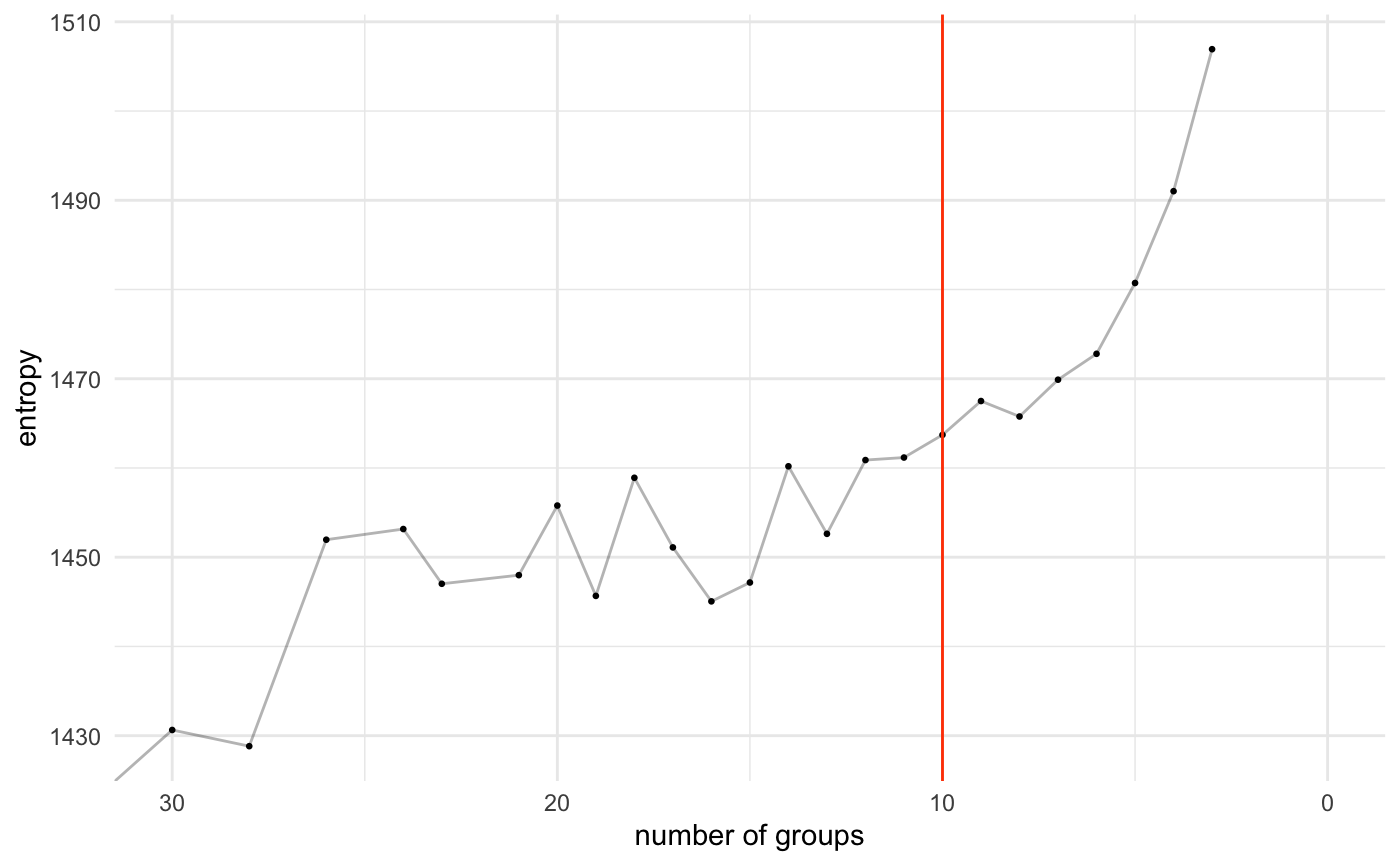
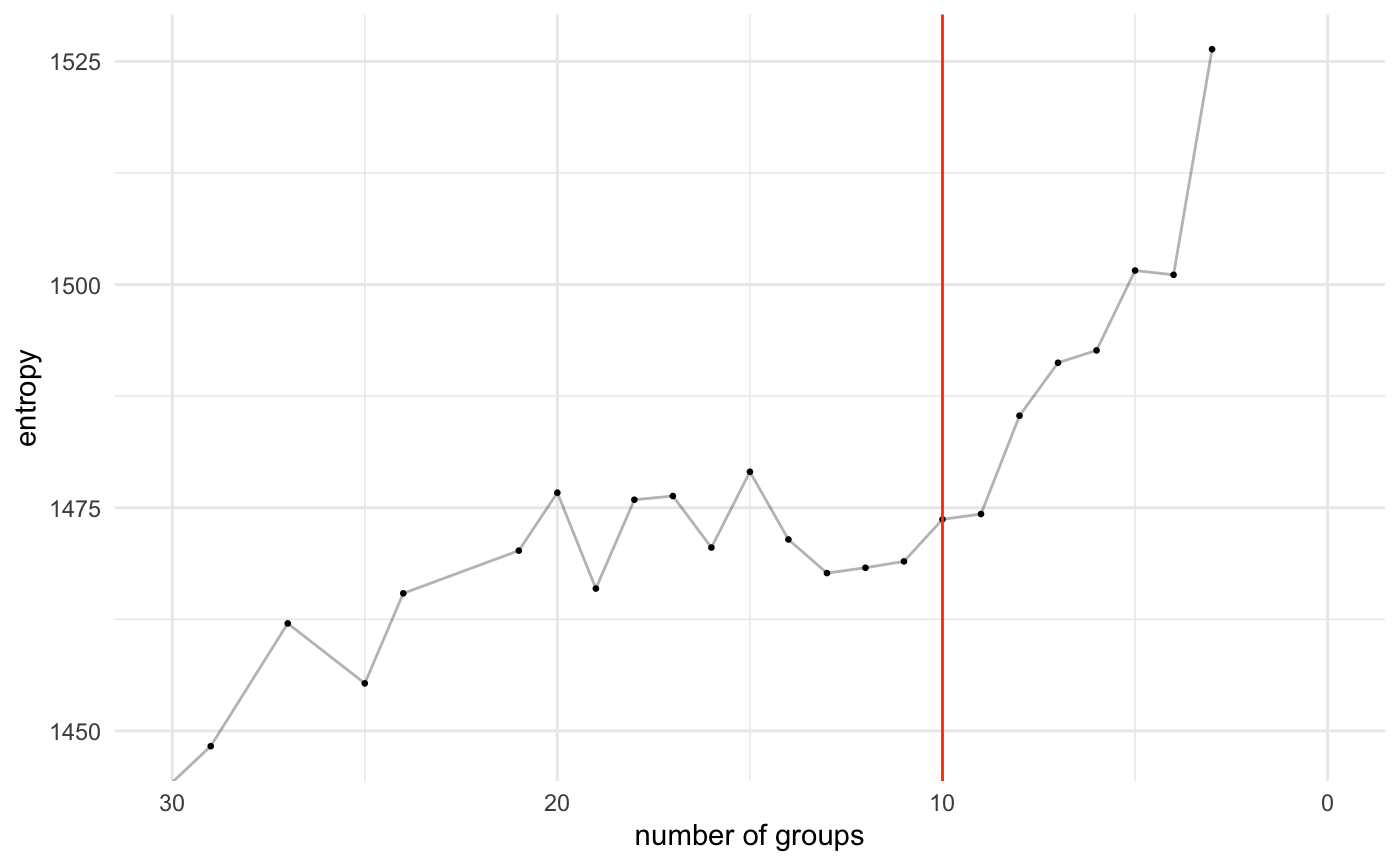
Added section titles for ease of reading

diff --git a/docs/articles/agglomerative_merging.html b/docs/articles/agglomerative_merging.html
@@ -137,6 +137,9 @@
 <a class="sourceLine" id="cb2-39" data-line-number="39"><span class="co">#&gt; 4 a12   none    a     0</span></a>
 <a class="sourceLine" id="cb2-40" data-line-number="40"><span class="co">#&gt; 5 a13   none    a     0</span></a>
 <a class="sourceLine" id="cb2-41" data-line-number="41"><span class="co">#&gt; 6 a14   none    a     0</span></a></code></pre></div>
+<div id="basic-merging" class="section level2">
+<h2 class="hasAnchor">
+<a href="#basic-merging" class="anchor"></a>Basic merging</h2>
 <p>Now that we have our model setup there are two parameters that control this merging.</p>
 <p>First we have <code>GREEDY</code>. When this is set to <code>TRUE</code>, the at every merge step the model will check every possible merge for each node and select the best one.</p>
 <p>Second is <code>N_CHECKS_PER_GROUP</code>. When <code>GREEDY</code> is set to <code>FALSE</code>, this parameter controls how many possible merges the model explores for each node before choosing the best one. Higher means a longer run time. Note that these potential merges are done by a random sample of neighbor groups so even if <code>N_CHECKS_PER_GROUP</code> is set to the total number of nodes in the network we are not guarenteed to explore all options like <code>GREEDY</code> does.</p>
@@ -159,13 +162,13 @@
 <a class="sourceLine" id="cb5-10" data-line-number="10">}</a>
 <a class="sourceLine" id="cb5-11" data-line-number="11"></a>
 <a class="sourceLine" id="cb5-12" data-line-number="12"><span class="kw">extract_n_groups</span>(merge_results) <span class="op">%&gt;%</span><span class="st"> </span><span class="kw"><a href="https://rdrr.io/r/utils/head.html">head</a></span>()</a>
-<a class="sourceLine" id="cb5-13" data-line-number="13"><span class="co">#&gt; [1] 99 51 41 37 33 30</span></a></code></pre></div>
+<a class="sourceLine" id="cb5-13" data-line-number="13"><span class="co">#&gt; [1] 99 50 41 37 32 29</span></a></code></pre></div>
 <p>Next we can look at how that number of groups corresponds to the entropy of the model.</p>
 <div class="sourceCode" id="cb6"><pre class="sourceCode r"><code class="sourceCode r"><a class="sourceLine" id="cb6-1" data-line-number="1">extract_entropy &lt;-<span class="st"> </span><span class="cf">function</span>(merge_results){</a>
 <a class="sourceLine" id="cb6-2" data-line-number="2">  merge_results <span class="op">%&gt;%</span><span class="st"> </span>purrr<span class="op">::</span><span class="kw"><a href="https://purrr.tidyverse.org/reference/map.html">map_dbl</a></span>(<span class="st">'entropy'</span>)</a>
 <a class="sourceLine" id="cb6-3" data-line-number="3">}</a>
 <a class="sourceLine" id="cb6-4" data-line-number="4"><span class="kw">extract_entropy</span>(merge_results) <span class="op">%&gt;%</span><span class="st"> </span><span class="kw"><a href="https://rdrr.io/r/utils/head.html">head</a></span>()</a>
-<a class="sourceLine" id="cb6-5" data-line-number="5"><span class="co">#&gt; [1] 1266.833 1331.157 1358.811 1394.901 1419.088 1430.638</span></a></code></pre></div>
+<a class="sourceLine" id="cb6-5" data-line-number="5"><span class="co">#&gt; [1] 1297.207 1346.819 1385.187 1409.766 1436.112 1448.282</span></a></code></pre></div>
 <p>We should almost always see the entropy decrease as we remove groups but if there is signal in the model and the algorithm found it, we should see a relativel “lack of decrease” around the true structure value. We know the true number of groups in this data is 6 so we can reference that here…</p>
 <div class="sourceCode" id="cb7"><pre class="sourceCode r"><code class="sourceCode r"><a class="sourceLine" id="cb7-1" data-line-number="1">results_to_df &lt;-<span class="st"> </span><span class="cf">function</span>(merge_results){</a>
 <a class="sourceLine" id="cb7-2" data-line-number="2">  <span class="kw">tibble</span>(</a>
@@ -204,6 +207,10 @@
 <a class="sourceLine" id="cb7-35" data-line-number="35">}</a></code></pre></div>
 <div class="sourceCode" id="cb8"><pre class="sourceCode r"><code class="sourceCode r"><a class="sourceLine" id="cb8-1" data-line-number="1">merge_results <span class="op">%&gt;%</span><span class="st"> </span><span class="kw">results_to_df</span>() <span class="op">%&gt;%</span><span class="st"> </span><span class="kw">plot_merge_results</span>()</a></code></pre></div>
 <p><img src="agglomerative_merging_files/figure-html/unnamed-chunk-8-1.png" width="700"></p>
+</div>
+<div id="non-greedy-merge-proposals" class="section level2">
+<h2 class="hasAnchor">
+<a href="#non-greedy-merge-proposals" class="anchor"></a>Non-Greedy merge proposals</h2>
 <p>We can perform the same setup but this time not using greedy but the sampling version</p>
 <div class="sourceCode" id="cb9"><pre class="sourceCode r"><code class="sourceCode r"><a class="sourceLine" id="cb9-1" data-line-number="1">new_sbm &lt;-<span class="st"> </span><span class="kw"><a href="../reference/create_sbm.html">create_sbm</a></span>(edges, nodes)</a>
 <a class="sourceLine" id="cb9-2" data-line-number="2">new_sbm<span class="op">$</span>GREEDY &lt;-<span class="st"> </span><span class="ot">FALSE</span></a>
@@ -212,6 +219,10 @@
 <a class="sourceLine" id="cb9-5" data-line-number="5"></a>
 <a class="sourceLine" id="cb9-6" data-line-number="6">non_greedy_merge_results <span class="op">%&gt;%</span><span class="st"> </span><span class="kw">results_to_df</span>() <span class="op">%&gt;%</span><span class="st"> </span><span class="kw">plot_merge_results</span>()</a></code></pre></div>
 <p><img src="agglomerative_merging_files/figure-html/unnamed-chunk-9-1.png" width="700"></p>
+</div>
+<div id="controlling-number-of-merge-checks-per-node" class="section level2">
+<h2 class="hasAnchor">
+<a href="#controlling-number-of-merge-checks-per-node" class="anchor"></a>Controlling number of merge checks per node</h2>
 <p>We can try scanning over different number of checks per group to see how it changes results</p>
 <div class="sourceCode" id="cb10"><pre class="sourceCode r"><code class="sourceCode r"><a class="sourceLine" id="cb10-1" data-line-number="1">merges_over_changes &lt;-<span class="st"> </span>purrr<span class="op">::</span><span class="kw"><a href="https://purrr.tidyverse.org/reference/map.html">map_dfr</a></span>(</a>
 <a class="sourceLine" id="cb10-2" data-line-number="2">  <span class="kw"><a href="https://rdrr.io/r/base/seq.html">seq</a></span>(<span class="dv">5</span>, <span class="dv">50</span>, <span class="dt">by =</span> <span class="dv">5</span>),</a>
@@ -227,6 +238,12 @@
 <a class="sourceLine" id="cb10-12" data-line-number="12"><span class="st">  </span><span class="kw">facet_wrap</span>(<span class="op">~</span>checks) <span class="op">+</span></a>
 <a class="sourceLine" id="cb10-13" data-line-number="13"><span class="st">  </span><span class="kw">ggtitle</span>(<span class="st">"Tuning number of merge checks per node"</span>)</a></code></pre></div>
 <p><img src="agglomerative_merging_files/figure-html/unnamed-chunk-10-1.png" width="700"></p>
+</div>
+<div id="controlling-number-of-mcmc-sweeps-between-merge-steps" class="section level2">
+<h2 class="hasAnchor">
+<a href="#controlling-number-of-mcmc-sweeps-between-merge-steps" class="anchor"></a>Controlling number of MCMC sweeps between merge steps</h2>
+<p>Another tuning parameter that will effect results is how many mcmc sweeps are performed between each merge step. When we let the model perform more MCMC sweeps in theory it will equilibriate to the best partition with the current number of groups, meaning we would get a better picture of the best entropy for a given number of clusters.</p>
+<p>Here we scan over different numbers of MCMC sweeps and if we use greedy or not for our merging (in theory greedy should not be particularly helpful here.)</p>
 <div class="sourceCode" id="cb11"><pre class="sourceCode r"><code class="sourceCode r"><a class="sourceLine" id="cb11-1" data-line-number="1">merges_over_sweeps_and_greedy &lt;-<span class="st"> </span><span class="kw"><a href="https://rdrr.io/r/base/expand.grid.html">expand.grid</a></span>(</a>
 <a class="sourceLine" id="cb11-2" data-line-number="2">  <span class="dt">mcmc_sweeps =</span> <span class="kw"><a href="https://rdrr.io/r/base/seq.html">seq</a></span>(<span class="dv">1</span>, <span class="dv">101</span>, <span class="dt">by =</span> <span class="dv">25</span>),</a>
 <a class="sourceLine" id="cb11-3" data-line-number="3">  <span class="dt">greedy =</span> <span class="kw"><a href="https://rdrr.io/r/base/c.html">c</a></span>(<span class="ot">TRUE</span>, <span class="ot">FALSE</span>)</a>
@@ -251,6 +268,11 @@
 <a class="sourceLine" id="cb11-22" data-line-number="22"><span class="st">  </span><span class="kw">facet_grid</span>(mcmc_sweeps<span class="op">~</span>greedy) <span class="op">+</span></a>
 <a class="sourceLine" id="cb11-23" data-line-number="23"><span class="st">  </span><span class="kw">ggtitle</span>(<span class="st">"Tuning and greedy status and number of mcmc sweeps per stage"</span>)</a></code></pre></div>
 <p><img src="agglomerative_merging_files/figure-html/unnamed-chunk-11-1.png" width="700"></p>
+</div>
+<div id="controlling-collapsing-rate-sigma" class="section level2">
+<h2 class="hasAnchor">
+<a href="#controlling-collapsing-rate-sigma" class="anchor"></a>Controlling collapsing rate (sigma)</h2>
+<p>Another important parameter to tune is <code>SIGMA</code>. This controls the rate that the network collapses. For each merge step the model will remove <code>B_curr/SIGMA</code> groups. This means a value of <code>SIGMA = 2</code> will cut the group size in half each step.</p>
 <div class="sourceCode" id="cb12"><pre class="sourceCode r"><code class="sourceCode r"><a class="sourceLine" id="cb12-1" data-line-number="1">purrr<span class="op">::</span><span class="kw"><a href="https://purrr.tidyverse.org/reference/map.html">map_dfr</a></span>(</a>
 <a class="sourceLine" id="cb12-2" data-line-number="2">  <span class="kw"><a href="https://rdrr.io/r/base/seq.html">seq</a></span>(<span class="dt">from =</span> <span class="fl">0.9</span>, <span class="dt">to =</span> <span class="dv">2</span>, <span class="dt">length.out =</span> <span class="dv">5</span>),</a>
 <a class="sourceLine" id="cb12-3" data-line-number="3">  <span class="op">~</span>{</a>
@@ -265,10 +287,22 @@
 <a class="sourceLine" id="cb12-12" data-line-number="12"><span class="st">  </span><span class="kw">facet_wrap</span>(<span class="op">~</span>sigma) <span class="op">+</span></a>
 <a class="sourceLine" id="cb12-13" data-line-number="13"><span class="st">  </span><span class="kw">ggtitle</span>(<span class="st">"Tuning sigma value for merging"</span>)</a></code></pre></div>
 <p><img src="agglomerative_merging_files/figure-html/unnamed-chunk-12-1.png" width="700"></p>
+</div>
   </div>
 
   <div class="col-md-3 hidden-xs hidden-sm" id="sidebar">
 
+        <div id="tocnav">
+      <h2 class="hasAnchor">
+<a href="#tocnav" class="anchor"></a>Contents</h2>
+      <ul class="nav nav-pills nav-stacked">
+<li><a href="#basic-merging">Basic merging</a></li>
+      <li><a href="#non-greedy-merge-proposals">Non-Greedy merge proposals</a></li>
+      <li><a href="#controlling-number-of-merge-checks-per-node">Controlling number of merge checks per node</a></li>
+      <li><a href="#controlling-number-of-mcmc-sweeps-between-merge-steps">Controlling number of MCMC sweeps between merge steps</a></li>
+      <li><a href="#controlling-collapsing-rate-sigma">Controlling collapsing rate (sigma)</a></li>
+      </ul>
+</div>
       </div>
 
 </div>
